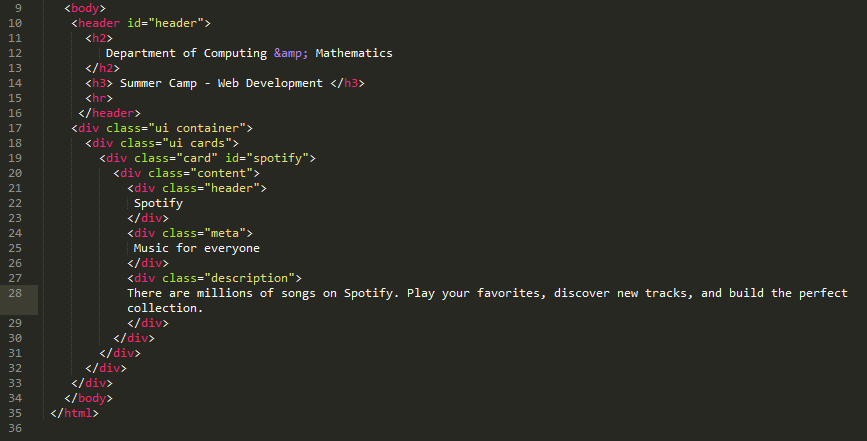
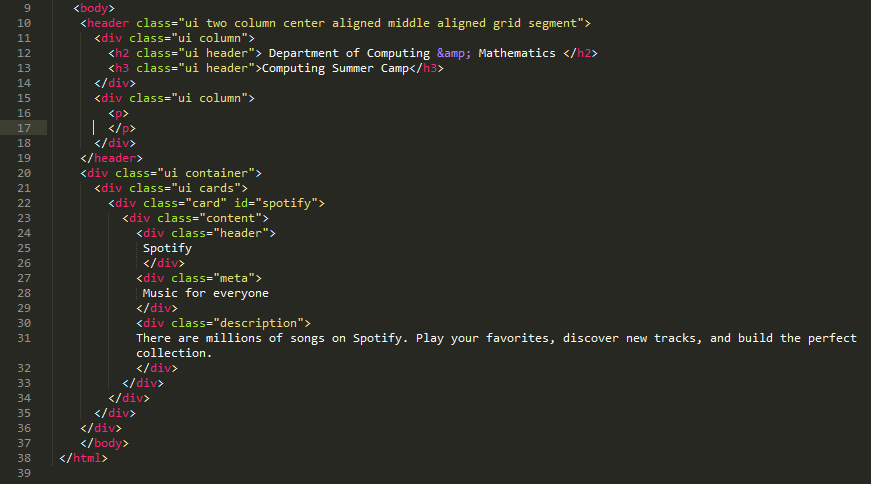
steps 1-3 complete

Changed region(s): [[0.0623, 0.0, 0.9965, 0.9728], [0.0, 0.0, 0.0311, 0.678], [0.0, 0.7075, 0.0311, 1.0]]

diff --git a/topic01/book/index.html b/topic01/book/index.html
@@ -137,14 +137,16 @@ Windows Command Prompt, this is where you will write instructions to publish you
 <li>Copy the following lines of code (highlight the code, right click and choose copy) </li>
 </ul>
 <pre><code>
-    &lt;header id=&quot;header&quot;&gt;
-      &lt;h2&gt;
-         Department of Computing &amp;amp; Mathematics
-      &lt;/h2&gt;
-      &lt;h3&gt; Summer Camp - Web Development &lt;/h3&gt;
-      &lt;hr&gt;
+    &lt;header class=&quot;ui two column center aligned middle aligned grid segment&quot;&gt;
+      &lt;div class=&quot;ui column&quot;&gt;
+        &lt;h2 class=&quot;ui header&quot;&gt; Department of Computing &amp;amp; Mathematics &lt;/h2&gt;
+        &lt;h3 class=&quot;ui header&quot;&gt;Computing Summer Camp&lt;/h3&gt;
+      &lt;/div&gt;
+      &lt;div class=&quot;ui column&quot;&gt;
+        &lt;p&gt;
+        &lt;/p&gt;
+      &lt;/div&gt;
     &lt;/header&gt;
-
 </code></pre>
 
 <ul>
@@ -173,33 +175,23 @@ Windows Command Prompt, this is where you will write instructions to publish you
 </li>
 </ul>
 <pre><code>
-    &lt;div class=&quot;ui container&quot;&gt;
-      &lt;div class=&quot;ui cards&quot;&gt;
-        &lt;div class=&quot;card&quot; id=&quot;stark&quot;&gt;
+        &lt;div class=&quot;card&quot; id=&quot;spotify&quot;&gt;
           &lt;div class=&quot;content&quot;&gt;
-            &lt;img class=&quot;right floated mini ui image&quot; src=&quot;/images/avatar/large/elliot.jpg&quot;&gt;
             &lt;div class=&quot;header&quot;&gt;
-             Elliot Fu
+             Spotify
             &lt;/div&gt;
             &lt;div class=&quot;meta&quot;&gt;
-             Friends of Veronika
+             Music for everyone
             &lt;/div&gt;
             &lt;div class=&quot;description&quot;&gt;
-            Elliot requested permission to view your contact details
+            There are millions of songs on Spotify. Play your favorites, discover new tracks, and build the perfect collection.
             &lt;/div&gt;
           &lt;/div&gt;
         &lt;/div&gt;
-      &lt;/div&gt;
-    &lt;/div&gt;  
-
 </code></pre>
 
 <ul>
-<li>
-<ul>
 <li>Go back to the Sublime text editor and paste it into the html code so that it comes directly after the <code>&lt;/header</code>&gt; as you can see below:</li>
-</ul>
-</li>
 </ul>
 <p><img alt="" src="./img/09.png"></p>
 <ul>
@@ -223,11 +215,11 @@ Your web page should now look like this.</p>
 <li>The Images folder contains 4 images, the first one we will use is wit-crest.png</li>
 <li>Copy the following line of code.</li>
 </ul>
-<pre><code>&lt;img class=&quot;header-crest-img&quot; src=&quot;assets/images/wit-crest.png&quot; alt=&quot;WIT Crest&quot;&gt;
+<pre><code>&lt;img class=&quot;ui medium image&quot; src=&quot;assets/images/wit-crest.png&quot; alt=&quot;WIT Crest&quot;&gt;
 </code></pre>
 
 <ul>
-<li>Go to Sublime text editor and place the line of code inside the <code>&lt;h2</code>&gt; and <code>&lt;/h2</code>&gt; alongside the text Department of Computing &amp; Mathematics so that it looks like this:</li>
+<li>Go to Sublime text editor and place the line of code inside the <code>&lt;p</code>&gt; and <code>&lt;/p</code>&gt;  so that it looks like this:</li>
 </ul>
 <p><img alt="" src="./img/11.png"></p>
 <ul>
@@ -240,7 +232,7 @@ Your web page should now look like this.</p>
 </ul>
 <p><img alt="" src="./img/12.png"></p>
 <ul>
-<li>You should see the W.I.T crest banner appear in the top left corner of header.</li>
+<li>You should see the W.I.T crest banner appear in the top right of the header.</li>
 <li>Next we want to add an image to the Spotify content.</li>
 <li>Copy the following code.</li>
 </ul>
@@ -274,16 +266,106 @@ Your web page should now look like this.</p>
   </div>
   <div  class="ui tab segment lab" data-tab="03">
     <h1>Adding content</h1>
-<p>duplicate cards, and add a footer with another image, personal?</p>
+<p>Now we have created one piece of content we can copy it and make two more pieces of content.
+First we need to be able to view our code in smaller parts. We do this by hiding some parts of the code and showing other parts. </p>
+<ul>
+<li>In the Sublime text editor move your mouse near the number 23 (this is the line number). It must be the line that contains the code <code>&lt;div class="card" id="spotify"</code>&gt; . You should see a small downwards facing arrow appearing beside the number. </li>
+<li>Click on this arrow.</li>
+</ul>
+<p><img alt="" src="./img/18.png"></p>
+<ul>
+<li>Once the arrow is clicked all of the code for the spotify content is hidden and it looks like this:</li>
+</ul>
+<p><img alt="" src="./img/19.png"></p>
+<ul>
+<li>
+<p>This makes is easier to read a large file of code. We will be now adding more code and this technique is helpful for viewing sections of code.</p>
+</li>
+<li>
+<p>Copy this section of code</p>
+</li>
+</ul>
+<pre><code>        &lt;div class=&quot;card&quot; id=&quot;euro2016&quot;&gt;
+          &lt;div class=&quot;content&quot;&gt;
+             &lt;img class=&quot;left floated small ui image&quot; src=&quot;assets/images/euro2016.jpg&quot;&gt;
+          &lt;div class=&quot;meta&quot;&gt;
+             10th June - 10th July
+          &lt;/div&gt;
+          &lt;div class=&quot;description&quot;&gt;
+            The 2016 UEFA European Championship will be the 15th edition of the international men's football championship of Europe.
+          &lt;/div&gt;
+          &lt;/div&gt;
+        &lt;/div&gt;
+
+</code></pre>
+
+<ul>
+<li>Go to the Sublime text editor and paste the section of code directly after the <code>&lt;/div</code>&gt; for the spotify section as shown below:</li>
+</ul>
+<p><img alt="" src="./img/20.png"></p>
+<ul>
+<li>If you are happy your code now looks like this:</li>
+</ul>
+<p><img alt="" src="./img/21.png"></p>
+<ul>
+<li>Choose save from the file menu</li>
+<li>Go to the Chrome web browser and click the refresh button.</li>
+</ul>
+<p><img alt="" src="./img/22.png"></p>
+<ul>
+<li>We now have two pieces of content, one for spotify and one for the European Cup.</li>
+<li>We will add one more piece of content to complete the web page content.</li>
+<li>First hide the section of code that relates to the euro2016 piece of content, you do this by clicking on the downwards arrow beside number 34 (the line of code containing <code>&lt;div class="card" id="euro2016"</code>&gt;. Your code will now look like this:</li>
+</ul>
+<p><img alt="" src="./img/23.png"></p>
+<ul>
+<li>Copy this piece of code</li>
+</ul>
+<pre><code>        &lt;div class=&quot;card&quot; id=&quot;chewbacca-mom&quot;&gt;
+          &lt;div class=&quot;content&quot;&gt;
+             &lt;img class=&quot;left floated small ui image&quot; src=&quot;assets/images/chewbacca-mom.jpg&quot;&gt;
+          &lt;div class=&quot;meta&quot;&gt;
+             Chewbacca laugh heard around the world
+            &lt;/div&gt;
+            &lt;div class=&quot;description&quot;&gt;
+            Payne could hardly contain her excitement after buying the Chewbacca mask from Kohls for herself as part of her birthday joy.
+            &lt;/div&gt;
+          &lt;/div&gt;
+        &lt;/div&gt;
+</code></pre>
+
+<ul>
+<li>Go to Sublime text editor and paste the piece of code directly after the <code>&lt;/div</code>&gt; for the euro2016 section, as shown below:</li>
+</ul>
+<p><img alt="" src="./img/24.png"></p>
+<ul>
+<li>Your code should now look like this:</li>
+</ul>
+<p><img alt="" src="./img/25.png"></p>
+<ul>
+<li>Choose Save from the File menu if your code is correct.</li>
+<li>Go to Chrome web browser and click refresh.</li>
+</ul>
+<p><img alt="" src="./img/26.png"></p>
+<ul>
+<li>You should now see three pieces of content</li>
+</ul>
   </div>
   <div  class="ui tab segment lab" data-tab="04">
     <h1>Links</h1>
+<p>https://www.spotify.com/ie/</p>
+<p>http://www.uefa.com/uefaeuro/</p>
+<p>https://www.youtube.com/watch?v=X26FuAlnnWY</p>
   </div>
   <div  class="ui tab segment lab" data-tab="05">
     <h1>Hosting</h1>
   </div>
   <div  class="ui tab segment lab" data-tab="06">
     <h1>Semantic elements</h1>
+<p>implement an element</p>
+<p>point them towards a choice of other elements</p>
+<p>add an element outside of the cards e.g footer</p>
+<p>buttons? icons? ribbons?</p>
   </div>
 <script>
 $('.ui.menu .item')
